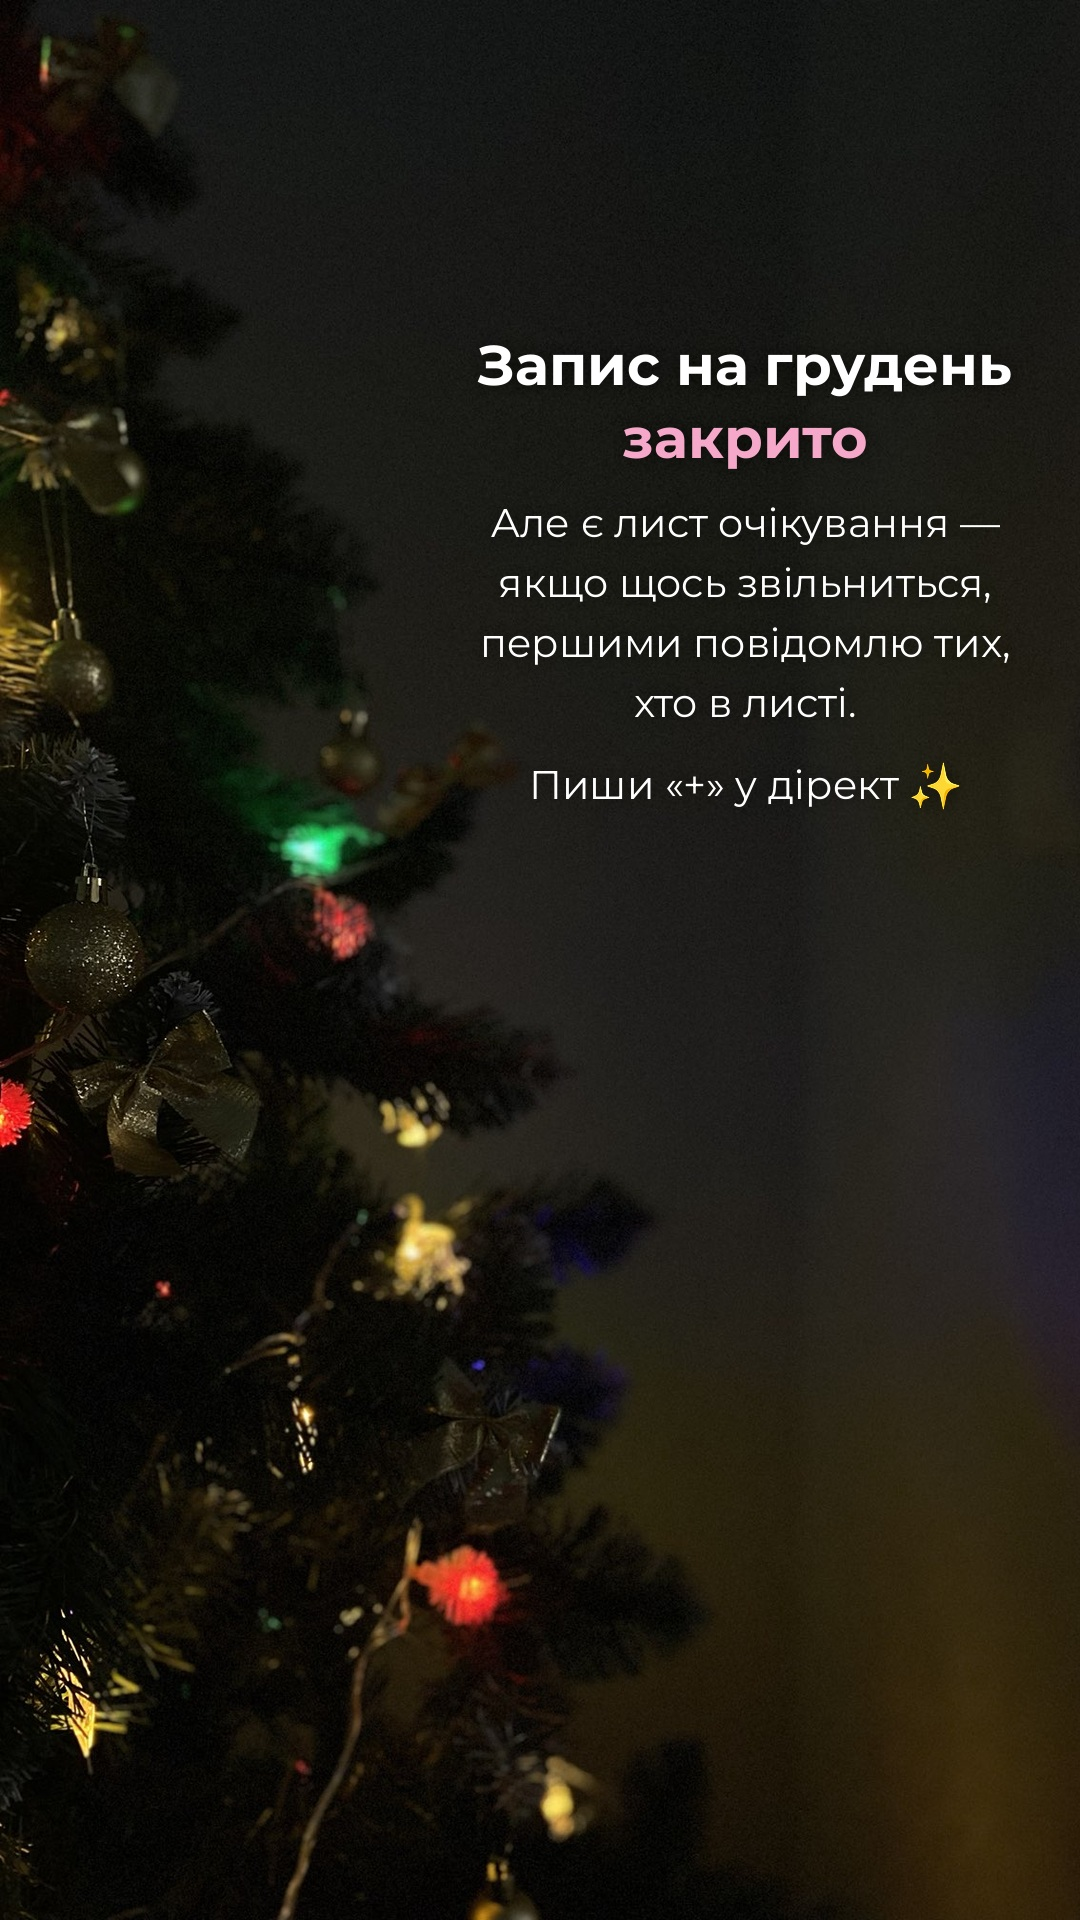
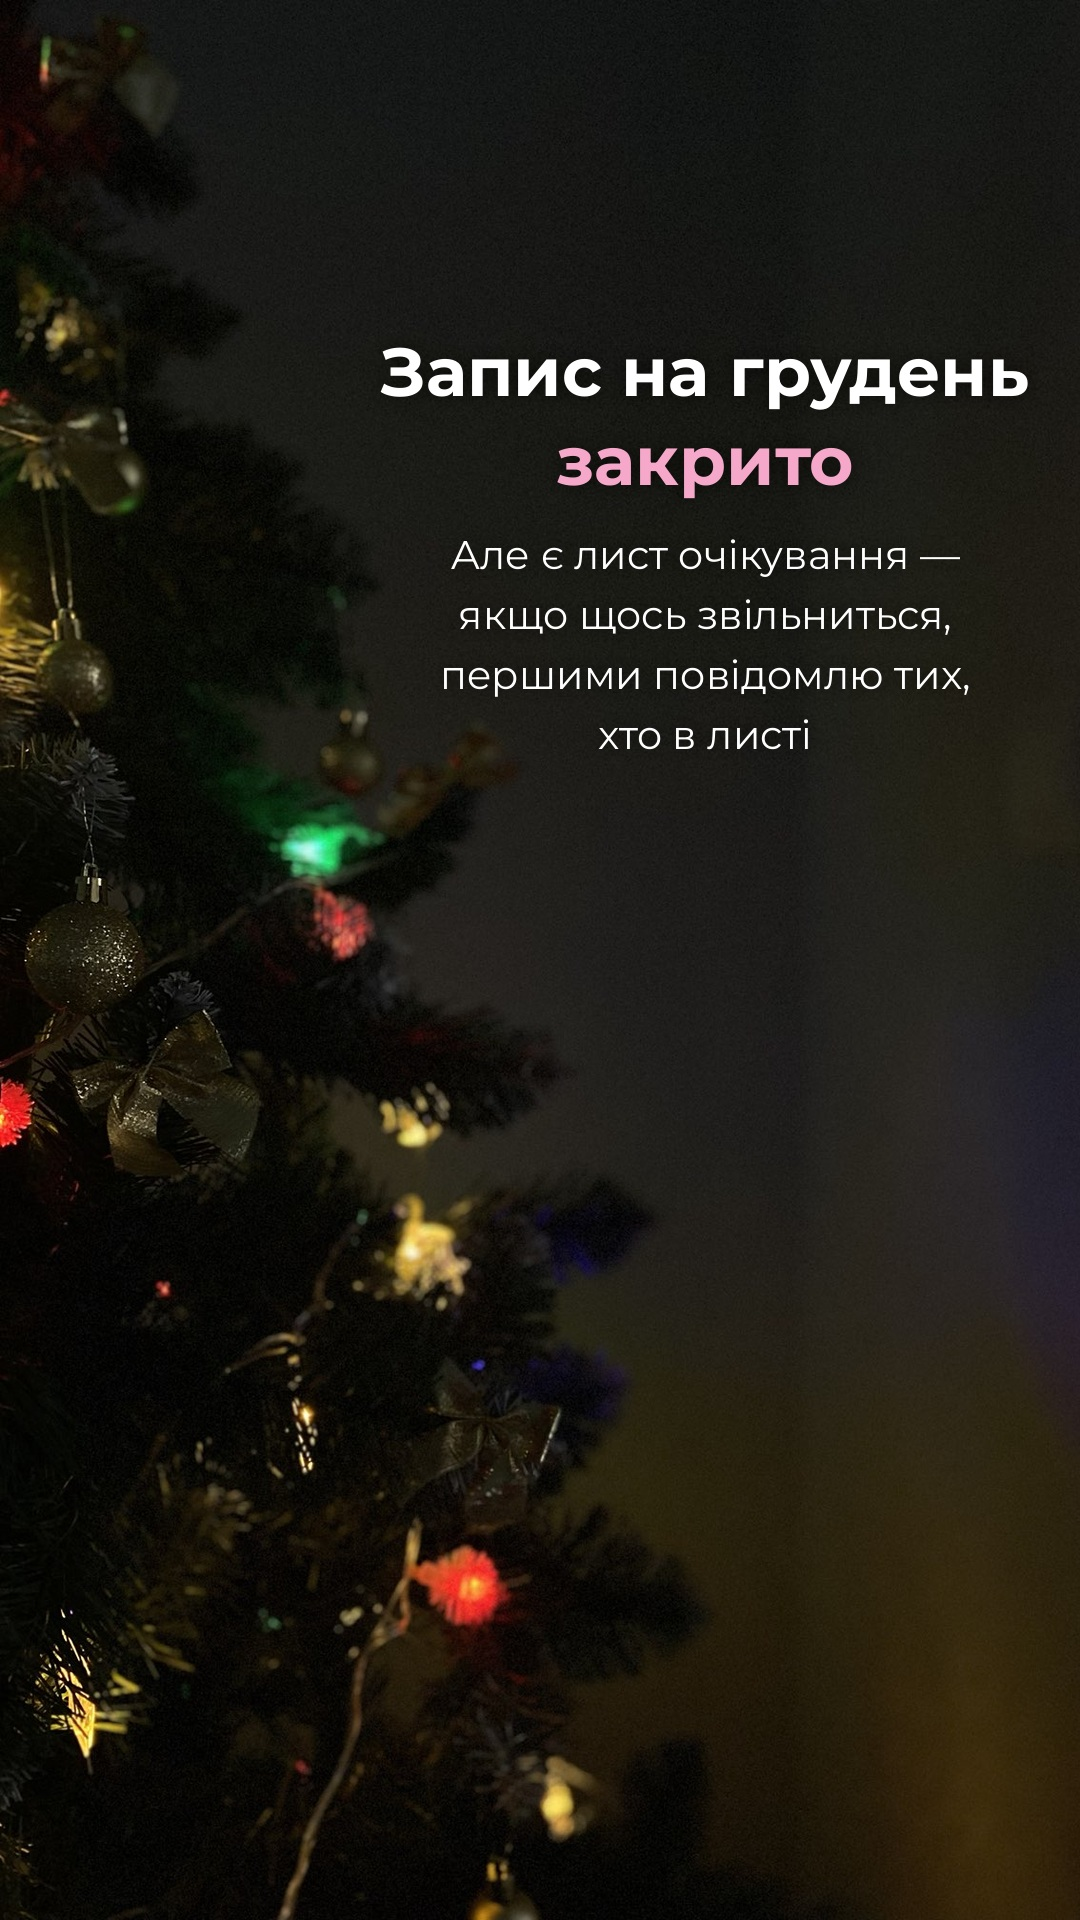
Сторі грудень: більший заголовок, без рядка про дірект
Claude-Session: https://claude.ai/code/session_0191xVL2hi5vHUvM1ix6pauC

Changed region(s): [[0.3361, 0.1562, 0.9472, 0.4375], [0.8556, 0.4062, 0.8861, 0.4375]]

diff --git a/stories/zapys_gruden/build.py b/stories/zapys_gruden/build.py
@@ -6,11 +6,11 @@ src=Image.open(f'{U}/7da78cb5-image.jpg').convert('RGB')
 r=1920/src.height; src=src.resize((int(src.width*r),1920),Image.LANCZOS)
 X0=320; im=src.crop((X0,0,X0+1080,1920))
 OUT=f'{R}/stories/zapys_gruden'
-BOLD=F(56,700); REG=F(40,400)
-im,y=tx(im,330,'Запис на грудень *закрито*','',cx=745,mw=580,align='c',shade=0)
-im,y=tx(im,y+14,'','Але є лист очікування —',None,cx=745,mw=700,align='c',shade=0)
-im,y=tx(im,y+0,'','якщо щось звільниться,',None,cx=745,mw=700,align='c',shade=0)
-im,y=tx(im,y+0,'','першими повідомлю тих,',None,cx=745,mw=700,align='c',shade=0)
-im,y=tx(im,y+0,'','хто в листі.',None,cx=745,mw=700,align='c',shade=0)
-im,y=tx(im,y+22,'','Пиши «+» у дірект','✨',cx=745,mw=700,align='c',shade=0)
+BOLD=F(68,700); REG=F(40,400)
+im,y=tx(im,330,'Запис на грудень','',cx=705,mw=900,align='c',shade=0)
+im,y=tx(im,y-8,'*закрито*','',cx=705,mw=900,align='c',shade=0)
+im,y=tx(im,y+14,'','Але є лист очікування —',None,cx=705,mw=700,align='c',shade=0)
+im,y=tx(im,y+0,'','якщо щось звільниться,',None,cx=705,mw=700,align='c',shade=0)
+im,y=tx(im,y+0,'','першими повідомлю тих,',None,cx=705,mw=700,align='c',shade=0)
+im,y=tx(im,y+0,'','хто в листі',None,cx=705,mw=700,align='c',shade=0)
 im.save(f'{OUT}/1.jpg',quality=94); print(y)
